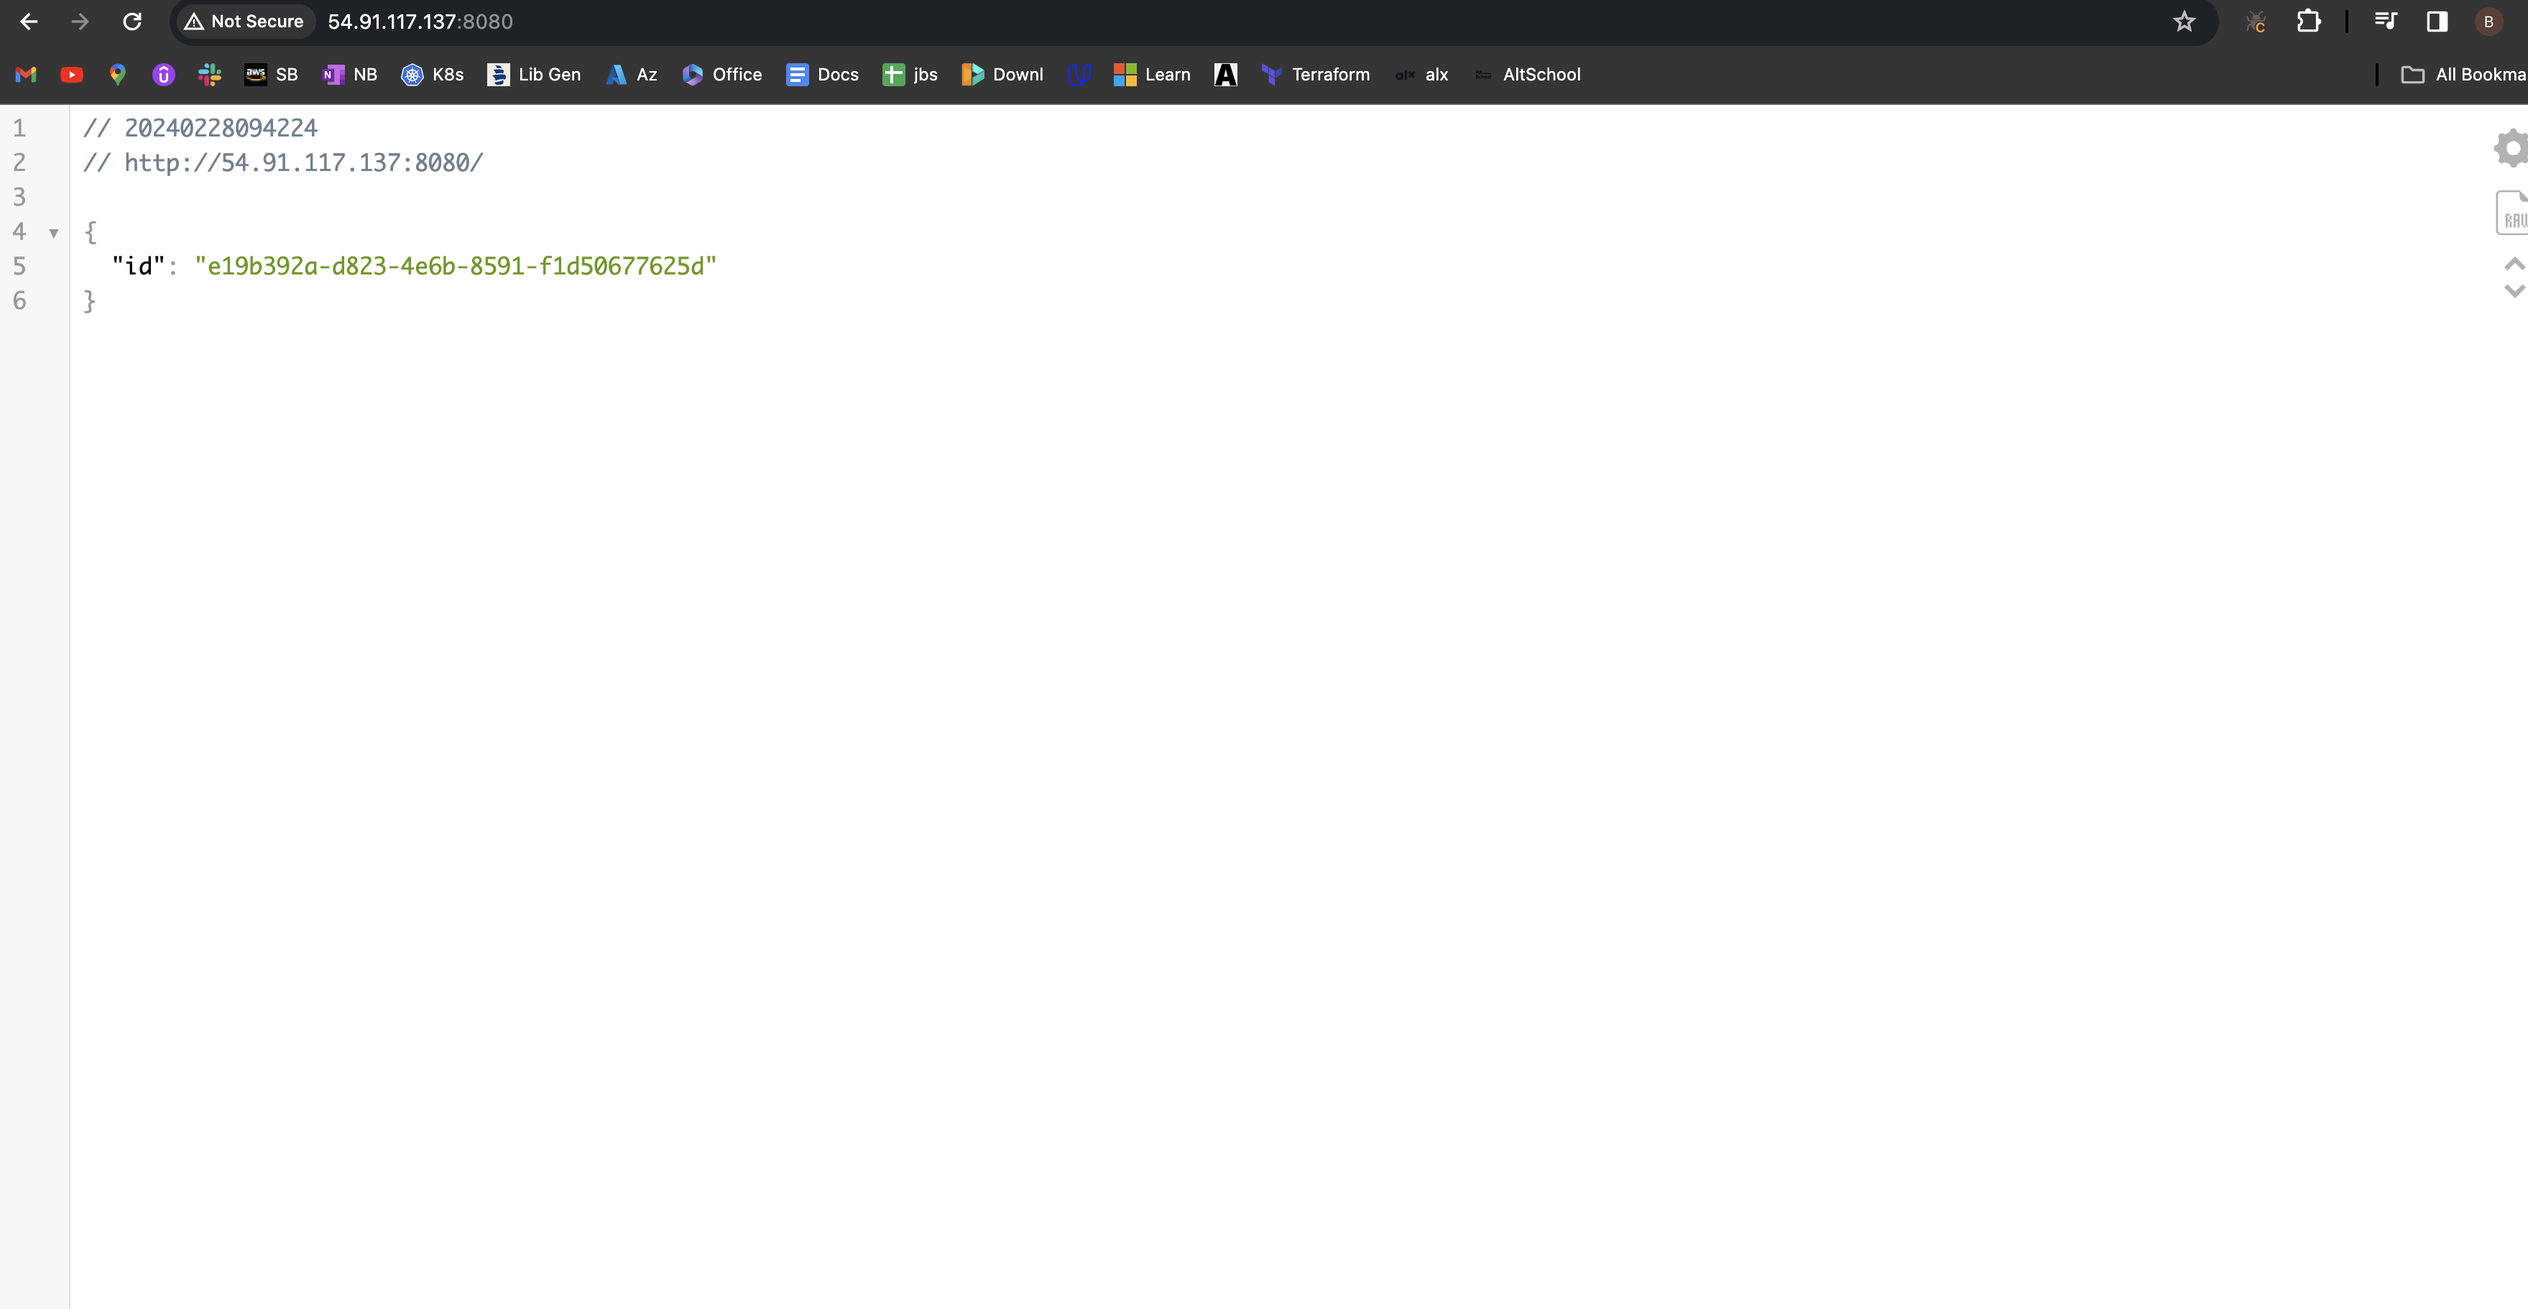
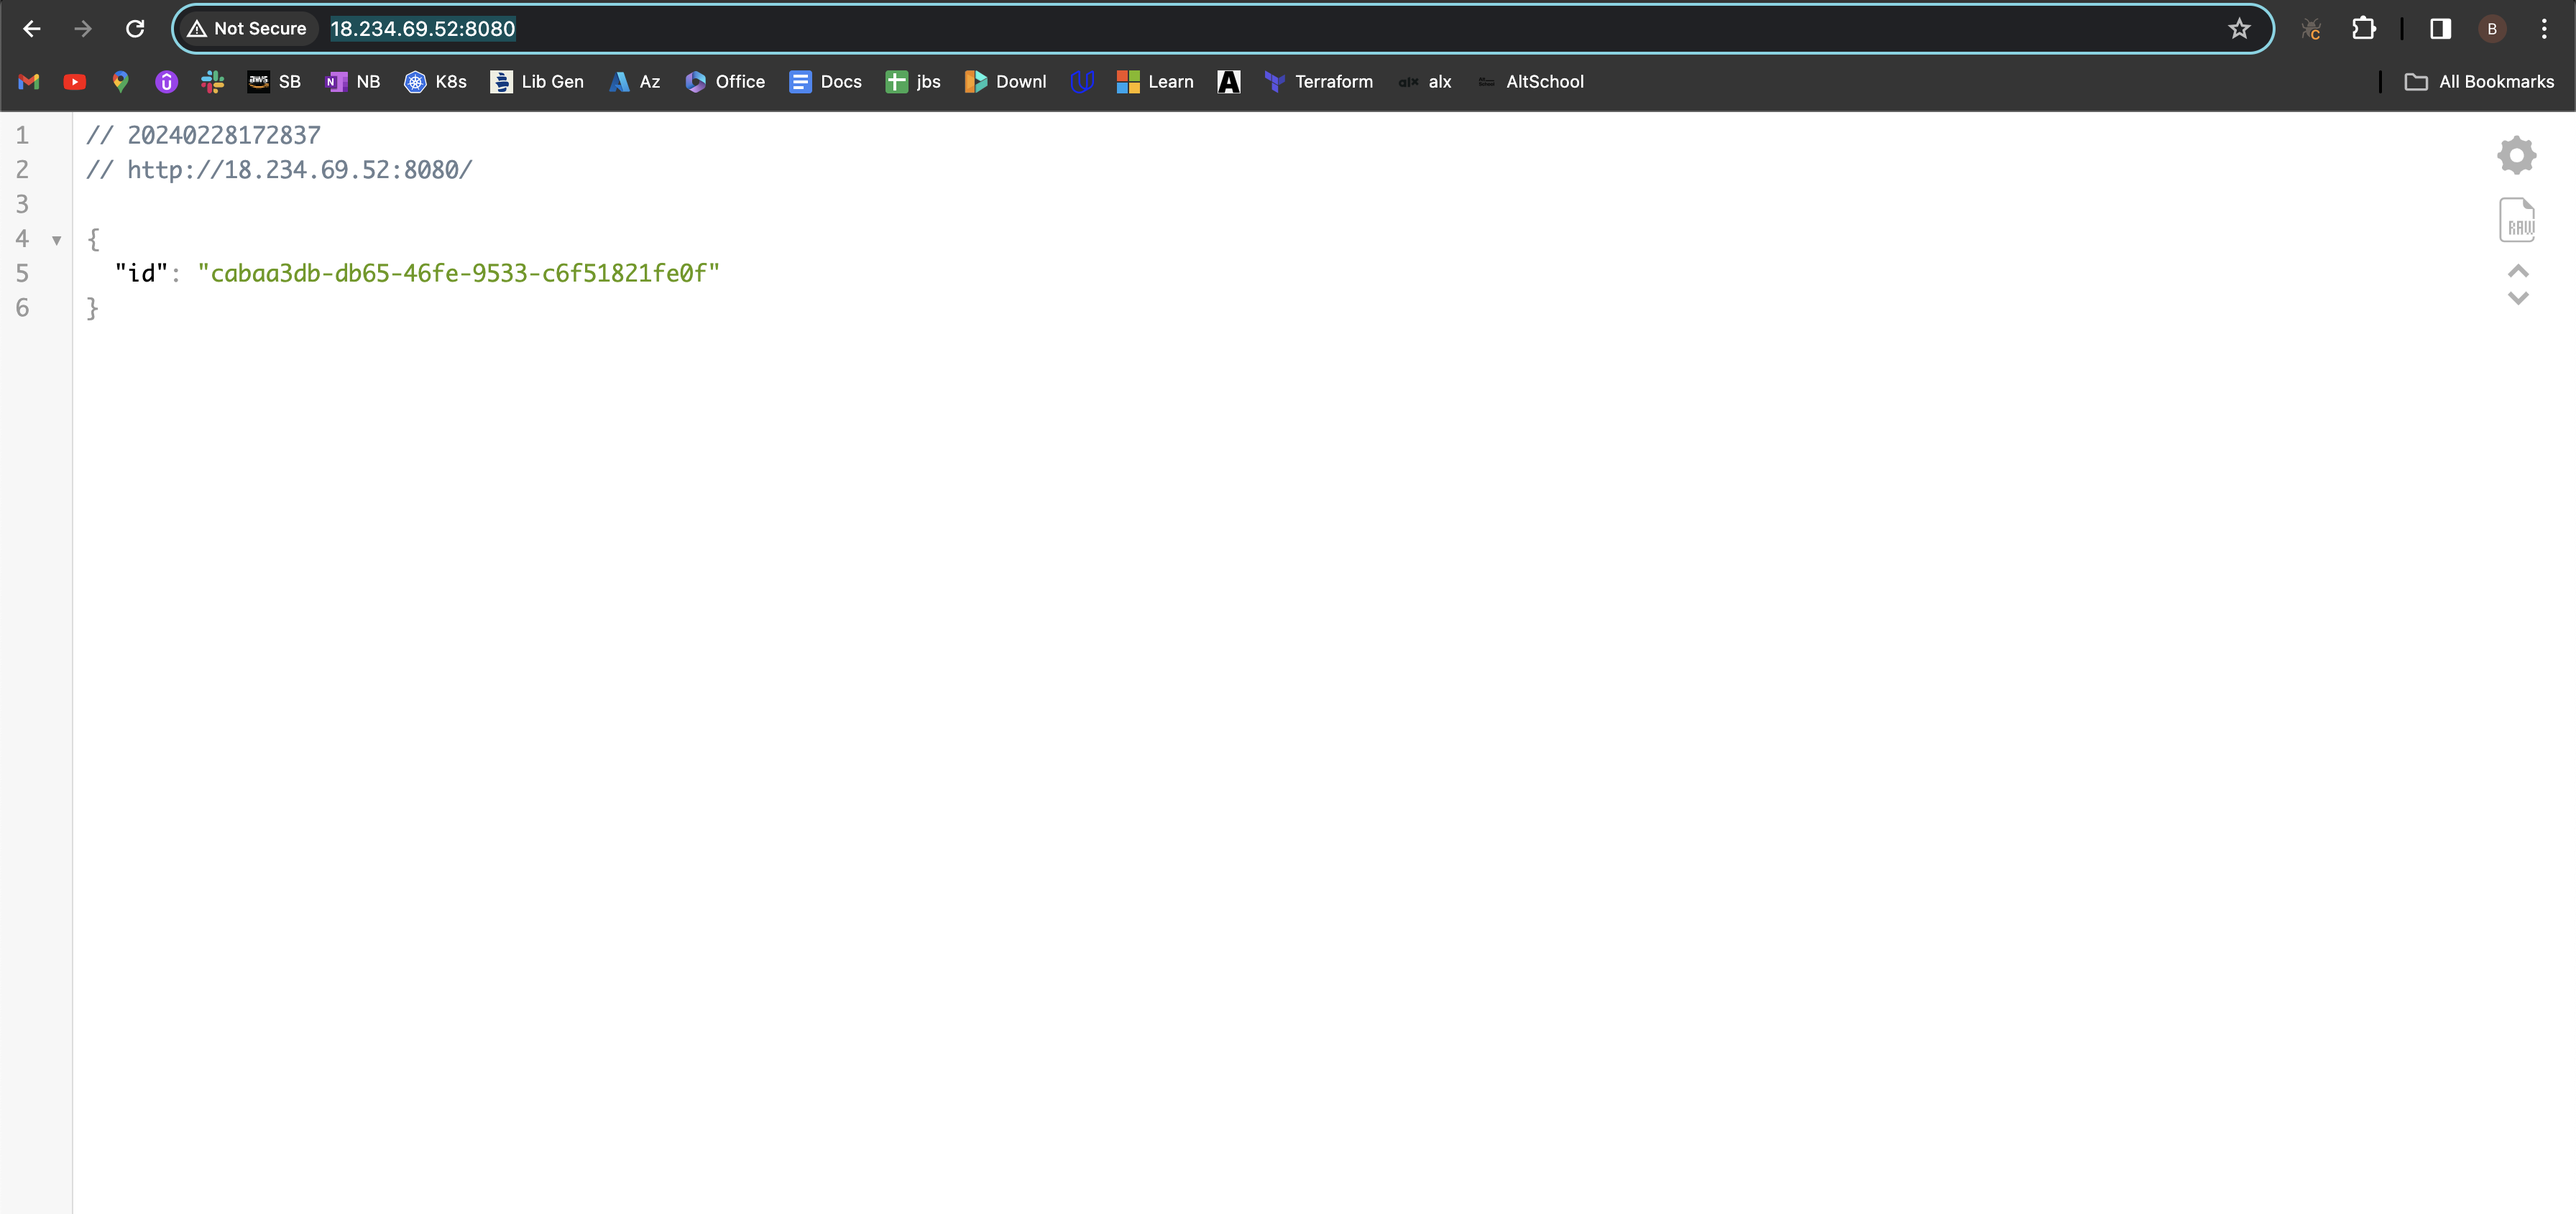
done job

Changed region(s): [[0.0, 0.0, 1.0, 0.2462], [0.0, 0.1538, 0.2789, 0.2462]]

diff --git a/README.md b/README.md
@@ -117,7 +117,7 @@ This repository contains Terraform scripts to provision AWS resources. The scrip
     +   backend service
         ![backend-task](./images/backend_ecs_service.png)
 
-    +   The application by heading to the URL http://<public_ip_of_backend_service>:8080/, in my case http://54.91.117.137:8080/
+    +   The application by heading to the URL http://<public_ip_of_backend_service>:8080/, in my case http://18.234.69.52:8080/
         ![ecs-backend-ui](./images/ecs_backend_ui.png)
     
 4.  Before we can make our frontend to connect with the deployed backend application, we need to change url this path [here](./frontend/src/config.js) to include our newly deployed url, because we are not more in our local system we are now running the application on the cloud.
@@ -126,8 +126,9 @@ This repository contains Terraform scripts to provision AWS resources. The scrip
         //  export const API_URL = 'http://localhost:8080/'
 
             After the backend application is being deployed to the cloud, we need to change from **localhost** to **backend public ip in ecs service**
-            export const API_URL = 'http://54.91.117.137:8080/'
+            export const API_URL = 'http://18.234.69.52:8080/'
             export default API_URL
+
     +   If the configuration is not done as above then we get this error
         ![error](./images/failed_frontend_ecs.png)
 5.   After the change, i push this to the github so the github action can do the contineous integrate and update the image with the latest application configuration.
@@ -140,7 +141,7 @@ This repository contains Terraform scripts to provision AWS resources. The scrip
     +   Backend Service
     ![front-serv](./images/fronyend_ecs_serv.png)
     
-    +   The application by heading to the URL http://<public_ip_of_frontend_service>:3000/, in my case http://54.146.247.101:3000/
+    +   The application by heading to the URL http://<public_ip_of_frontend_service>:3000/, in my case http://54.167.250.149:3000/
     ![frontend-service](./images/frontend-ecs-ui.png)
 
     +   NB: The public IP for the frontend application get to change subsequently when we push to github and updates the ecr images, it then tends to update the cluster with the new image, so it might change, solution to this is by attaching a static Ip with the service
